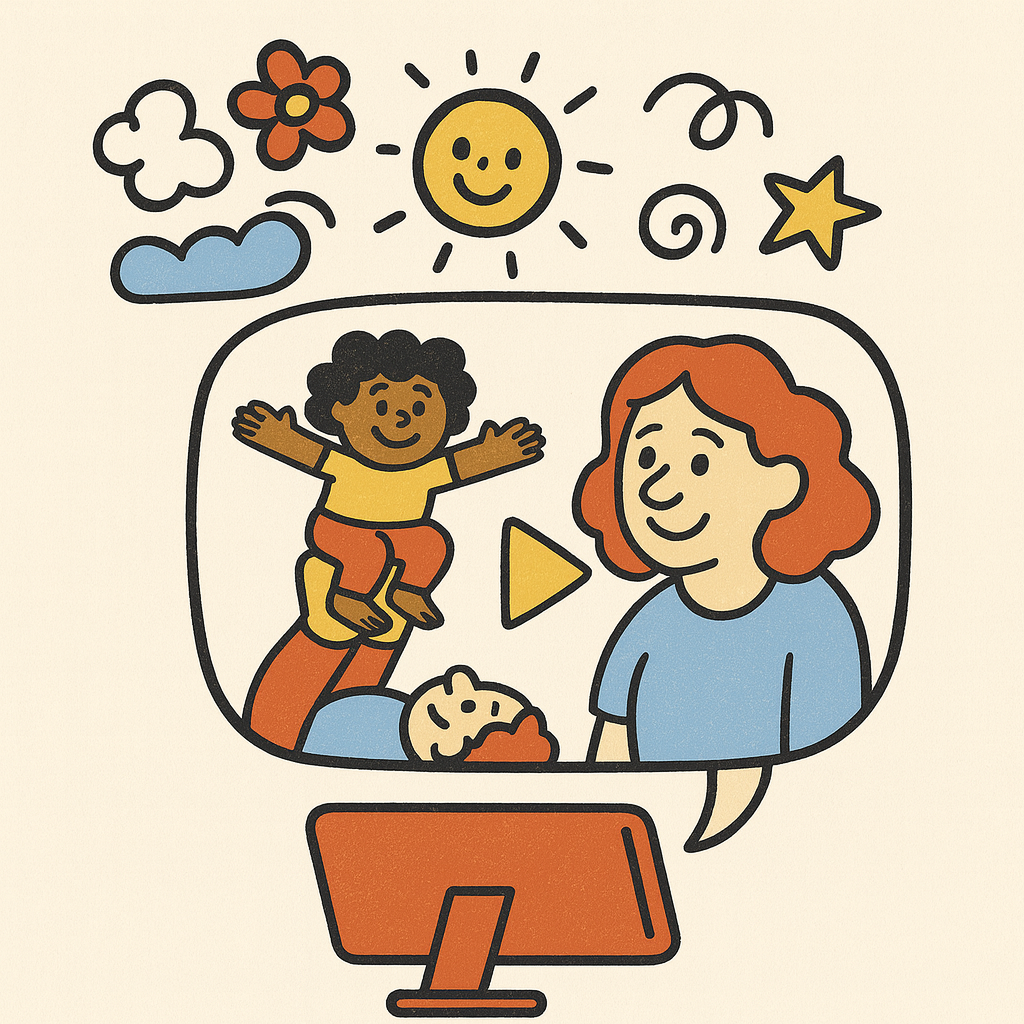
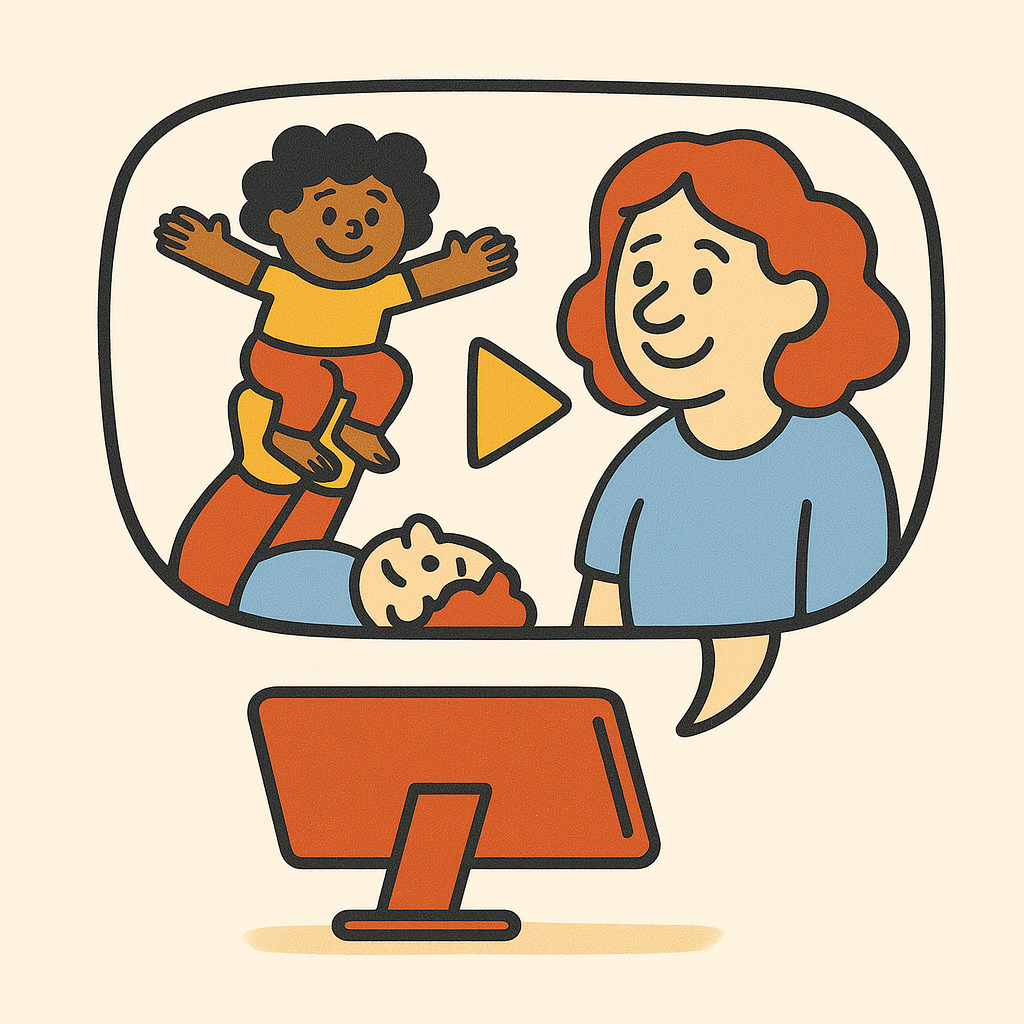
updated graphics & fixed comic splash positioning

diff --git a/index.html b/index.html
@@ -47,93 +47,110 @@
     </section>
 
     <section class="about-section">
-  <img src="images/letsplay.png" alt="Let's Play!" class="letsplay-about">
+        <div class="section-box">
+            <!-- Corner comic splash -->
+            <img src="images/letsplay.png" alt="Let's Play!" class="corner-splash splash-top-left">
 
-  <div class="section-box">
-    <h1>Playful Movement for All Levels</h1>
+            <h1>Playful Movement for All Levels</h1>
 
-    <!-- Row 1: text left, image right -->
-    <div class="about-row">
-      <div class="about-text">
-        <h3 class="about-subheading about-subheading-red">Playful, Social Movement</h3>
-        <p>
-          <strong>Partner Moves</strong> is all about connection through movement.
-          We make wellness fun and social with practices like Acroyoga, Thai massage,
-          flying therapeutics (lunar Acroyoga), and partner stretches.
-        </p>
-        <p>
-          Whether you’re joining us at a jam, online, or on retreat, you’ll find
-          clear guidance, lots of laughter, and a community that cheers for you.
-        </p>
-      </div>
+            <div class="about-layout">
+            <!-- Row 1: text left, image right -->
+            <div class="about-row">
+                <div class="about-text">
+                <h3 class="about-subheading about-subheading-red">Playful, Social Movement</h3>
+                <p>
+                    <strong>Partner Moves</strong> is all about connection through movement.
+                    We make wellness fun and social with practices like Acroyoga, Thai massage,
+                    flying therapeutics (lunar Acroyoga), and partner stretches.
+                </p>
+                <p>
+                    Whether you're joining us at a jam, online, or on retreat, you'll find
+                    clear guidance, lots of laughter, and a community that cheers for you.
+                </p>
+                </div>
 
-      <div class="about-image">
-        <img src="images/pm_graphic2.png" alt="Online acro and yoga illustration">
-      </div>
-    </div>
-
-    <!-- Row 2: image left, text right -->
-    <div class="about-row reverse">
-        <div class="about-image">
-            <img src="images/pm_graphic.png" alt="Acroyoga balancing illustration">
+                <div class="about-image">
+                <img src="images/pm_graphic2.png" alt="Online acro and yoga illustration">
+                </div>
             </div>
 
-            <div class="about-text">
+            <!-- Doodles Divider -->
+            <div class="about-doodles">
+                <img src="images/doodle.png" alt="doodle line 1">
+                <!--<img src="images/doodle2.png" alt="doodle line 2">!-->
+            </div>
+
+            <!-- Row 2: image left, text right -->
+            <div class="about-row reverse">
+                <div class="about-image">
+                <img src="images/pm_graphic.png" alt="Acroyoga balancing illustration">
+                </div>
+
+                <div class="about-text">
                 <h3 class="about-subheading about-subheading-yellow">Learn With Tutorials</h3>
 
                 <p>
-                Our tutorials break down movements in a simple, welcoming way so you can try new skills at your own pace.
-                Every video is beginner-friendly, clearly explained, and focused on safety and communication.
+                    Our tutorials break down movements in a simple, welcoming way so you can try new skills at your own pace.
+                    Every video is beginner-friendly, clearly explained, and focused on safety and communication.
                 </p>
 
                 <p>
-                Whether you're exploring your first counterbalance or refining transitions, you'll always find guidance that feels doable
-                and fun.
+                    Whether you're exploring your first counterbalance or refining transitions, you'll always find guidance
+                    that feels doable and fun.
                 </p>
 
                 <a href="/tutorials" class="tutorial-button">View Tutorials</a>
+                </div>
+            </div>
             </div>
         </div>
-
-    </div>
     </section>
 
     <section class="brand-values">
-        <img src="images/lift.png" alt="Lift splash" class="values-splash">
-        <div class="section-box">
-            <h3>Our Core Values</h3>
-            <div class="value-grid">
-                <div class="value-card value-blue"><strong>Fun </strong><br>Joyful, energetic, and full of playfulness. We believe movement feels best when it brings laughter, curiosity, and a sense of adventure to every practice.</div>
-                <div class="value-card value-red"><strong>Approachable </strong><br>Clear, welcoming, and easy to step into. Every class is designed so anyone can join, feel supported, and grow at a pace that feels comfortable and empowering.</div>
-                <div class="value-card value-yellow"><strong>Friendly </strong><br>Warm, encouraging, and community-focused. We create an environment where people feel safe, connected, and inspired to build trust.</div>
-            </div>
-        </div>
-    </section>
+  <div class="section-box">
+
+    <!-- Corner Splash -->
+    <img src="images/lift.png" alt="Lift!" class="corner-splash splash-top-right">
+
+    <h3>Our Core Values</h3>
+
+    <div class="value-grid">
+      <div class="value-card value-blue">
+        <strong>Fun </strong><br>
+        Joyful, energetic, and full of playfulness. We believe movement feels best
+        when it brings laughter, curiosity, and a sense of adventure to every practice.
+      </div>
+
+      <div class="value-card value-red">
+        <strong>Approachable </strong><br>
+        Clear, welcoming, and easy to step into. Every class is designed so anyone can
+        join, feel supported, and grow at a pace that feels comfortable and empowering.
+      </div>
+
+      <div class="value-card value-yellow">
+        <strong>Friendly </strong><br>
+        Warm, encouraging, and community-focused. We create an environment where people
+        feel safe, connected, and inspired to build trust.
+      </div>
+    </div>
+  </div>
+</section>
 
     <section class="comic-section">
-        <img src="images/smile.png" alt="Let's Play!" class="smile">
+  
+        <!-- Corner splash -->
+        <img src="images/smile.png" alt="Smile!" class="corner-splash splash-top-left">
+
         <div class="section-box">
             <h2 class="section-title">Photo Gallery</h2>
 
             <div class="comic-collage">
-            <div class="collage-item tall">
-                <img src="images/tomoko2.jpg" alt="">
-            </div>
-            <div class="collage-item">
-                <img src="images/partner-moves-photo.jpg" alt="">
-            </div>
-            <div class="collage-item wide">
-                <img src="images/circle.jpg" alt="">
-            </div>
-            <div class="collage-item">
-                <img src="images/testimonial.jpg" alt="">
-            </div>
-            <div class="collage-item">
-                <img src="images/sunset.jpg" alt="">
-            </div>
-            <div class="collage-item">
-                <img src="images/push.jpg" alt="">
-            </div>
+            <div class="collage-item tall"><img src="images/tomoko2.jpg" alt=""></div>
+            <div class="collage-item"><img src="images/partner-moves-photo.jpg" alt=""></div>
+            <div class="collage-item wide"><img src="images/circle.jpg" alt=""></div>
+            <div class="collage-item"><img src="images/testimonial.jpg" alt=""></div>
+            <div class="collage-item"><img src="images/sunset.jpg" alt=""></div>
+            <div class="collage-item"><img src="images/push.jpg" alt=""></div>
             </div>
         </div>
     </section>

diff --git a/style.css b/style.css
@@ -308,6 +308,42 @@ section {
     height: auto;
   }
 
+/* =============== COMIC CORNER SPLASHES =============== */
+.corner-splash {
+  position: absolute;
+  z-index: 3;
+  pointer-events: none;
+  /* responsive but capped */
+  width: min(220px, 26vw);
+}
+
+/* Corner variants */
+.splash-top-right {
+  top: -80px;
+  right: -40px;
+}
+
+.splash-top-left {
+  top: 10px;
+  left: 30px;
+}
+
+@media (max-width: 600px) {
+  .corner-splash {
+    width: min(120px, 30vw);
+  }
+
+  .splash-top-right {
+    top: -10px;
+    right: -4px;
+  }
+
+  .splash-top-left {
+    top: -10px;
+    left: -4px;
+  }
+}
+
 main {
     position: relative;
     z-index: 1;
@@ -393,7 +429,7 @@ main {
   align-items: center;   /* <-- NEW */
   justify-content: space-between;
   gap: 3rem;
-  margin: 3rem auto;
+  margin: 1rem auto;
   max-width: 1200px;
   padding: 2rem 3rem;
 }
@@ -464,6 +500,36 @@ main {
   color: #fff;
   transform: translate(-3px, -3px);
   box-shadow: 5px 5px 0 var(--ink);
+}
+
+/* Doodles between rows */
+.about-doodles {
+  display: flex;
+  justify-content: center;
+  gap: 1rem;
+  margin: -10rem auto;
+  max-width: 500px;
+  opacity: 0.9;
+}
+
+.about-doodles img {
+  width: 80%;
+  height: auto;
+  object-fit: contain;
+  display: block;
+}
+
+/* Mobile: stack the doodles if too narrow */
+@media (max-width: 650px) {
+  .about-doodles {
+    flex-direction: column;
+    gap: 0.6rem;
+    max-width: 220px;
+  }
+
+  .about-doodles img {
+    width: 100%;
+  }
 }
   
   /* Comic-style text bubble */
@@ -660,16 +726,6 @@ main {
         font-size: 1.1rem;
         line-height: 1.6;
     }
-
-.values-splash {
-  position: absolute;
-  top: -40px;         /* pull upward a bit for the overlapping comic effect */
-  right: 50px;       /* offset outside the box edge for style */
-  width: 200px;       /* adjust size if needed */
-  z-index: 3;         /* keep above box + background */
-  pointer-events: none;
-  transform: rotate(-3deg);
-}
   
 .brand-values .section-box {
   position: relative; /* required for absolute positioning */
@@ -1149,13 +1205,6 @@ main {
   .offerings h2 {
     font-size: 2.6rem !important;
     text-shadow: 1px 1px 0 var(--ink);
-  }
-
-  /* ---- VALUES SPLASH ---- */
-  .values-splash {
-    width: 110px;
-    top: -10px;
-    right: -10px;
   }
 
   /* ---- VALUE CARDS ---- */
